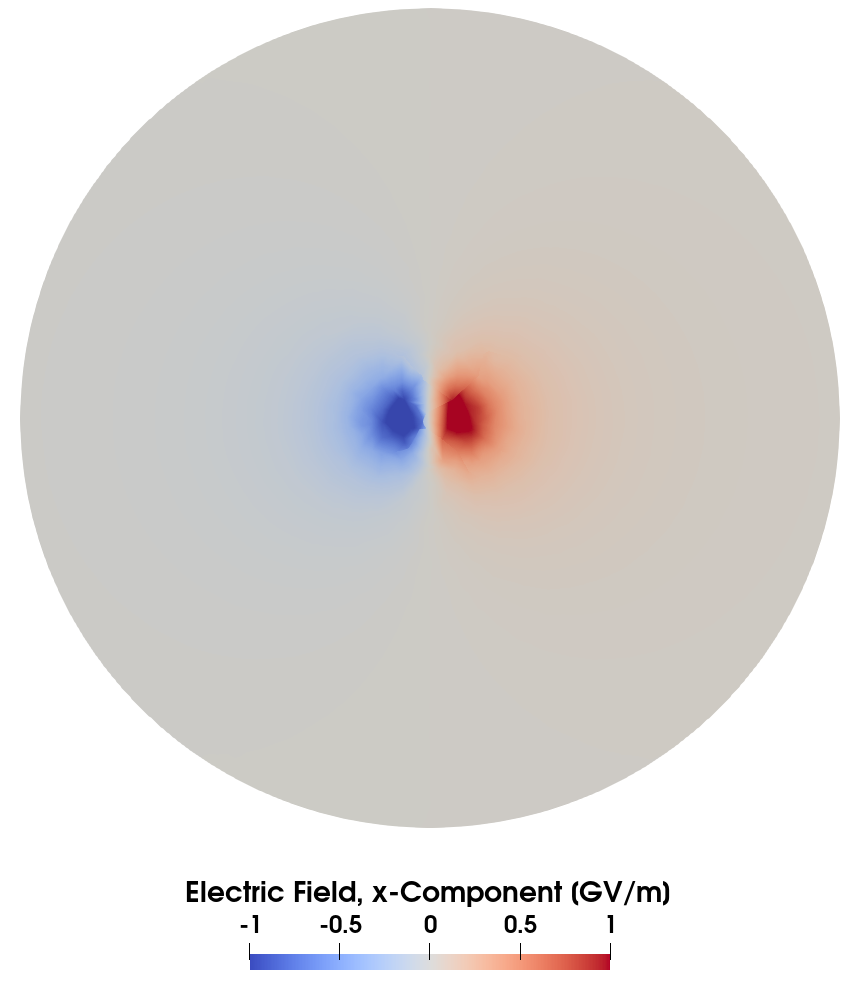
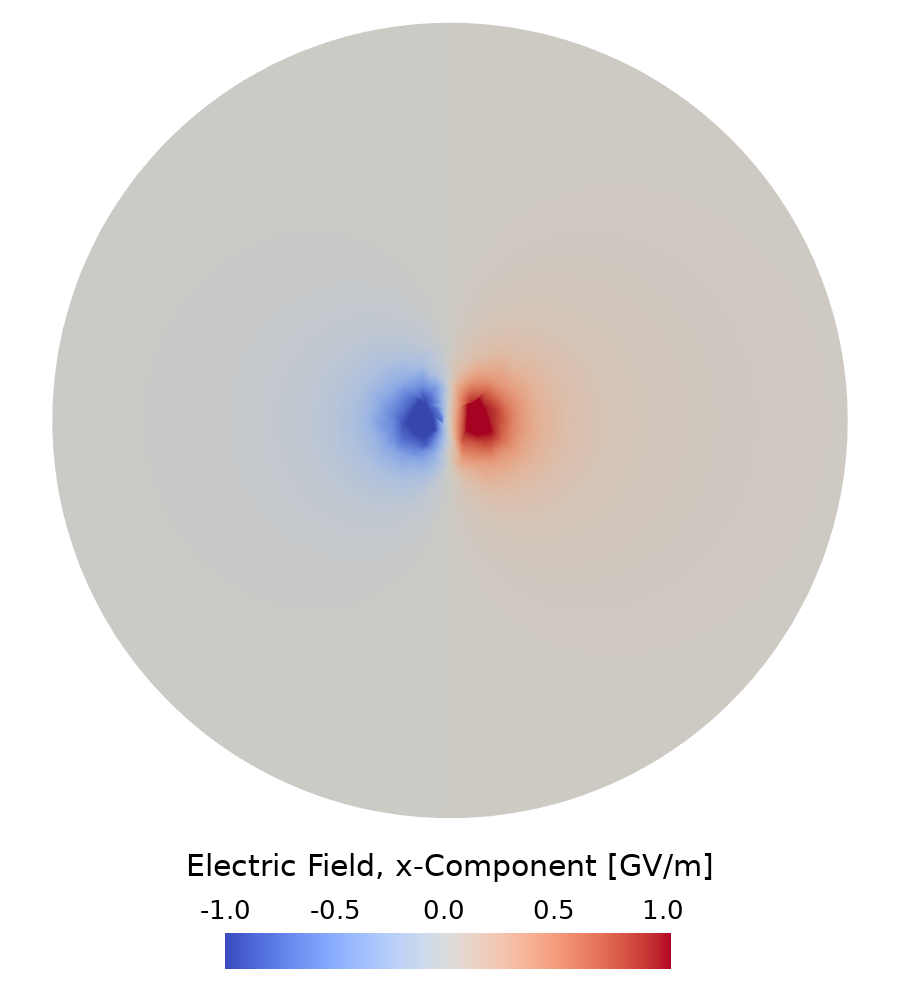
Render the David 2019 scene with PyVista

Changed region(s): [[0.0, 0.0, 0.9977, 1.0], [0.5442, 0.4242, 0.5744, 0.4545], [0.514, 0.3939, 0.5442, 0.4242]]

diff --git a/Electromagnetics/David_2019_Nonuniform_Charge_Density/case.py b/Electromagnetics/David_2019_Nonuniform_Charge_Density/case.py
@@ -124,11 +124,38 @@ class David2019ChargeDensity(ValidationCase):
                 path=f"{self.results_path / 'Electric_Field.png'}",
             )
 
-        # Export the electric field data to a VTK file (collective).
+        # Field export for the scene of create_scenes() (collective)
         vis = self.sim.get_field_exporter()
         vis.add_field_output("Electric Field")
         vis.add_field_output("Electric Potential")
         vis.save(order=2)
+
+    def create_scenes(self):
+        # The x-component of the electric field in the cross-section z = 0 of the spherical
+        # domain, seen from the front.
+        from casekit.pyvista_scene import FieldExportReader, add_colorbar, create_scene
+
+        domain = FieldExportReader(self.dir_path).read()["Domain"]
+        section = domain.slice(normal="z", origin=(0.0, 0.0, 0.0))
+
+        scene = create_scene((900, 1000))
+        actor = scene.add_mesh(
+            section, scalars="Electric Field", component=0, clim=(-1.0e9, 1.0e9)
+        )
+        scene.view_xy()
+        scene.camera.zoom(1.25)
+        # Room for the color bar below: the camera moves down (-y).
+        scene.camera.focal_point += np.array([0.0, -2.0, 0.0])
+        scene.camera.position += np.array([0.0, -2.0, 0.0])
+        add_colorbar(
+            scene,
+            actor,
+            "Electric Field, x-Component [GV/m]",
+            label_format="%.1f",
+            location="bottom",
+            scale=1e-9,
+        )
+        scene.show(screenshot=self.results_path / "Scene_Electric_Field.png")
 
 
 if __name__ == "__main__":

diff --git a/Electromagnetics/David_2019_Nonuniform_Charge_Density/README.md b/Electromagnetics/David_2019_Nonuniform_Charge_Density/README.md
@@ -430,10 +430,9 @@ The case checks the field at $`r = 1`$ m, near its maximum, where mufem is 3.4 %
 analytical value (the mesh size of 0.5 m equals the width $`a`$ of the charge
 distribution), and at $`r = 5`$ m, outside the charge, where it is 0.5 % below.
 
-To visualize the exported electric field data, we use
-[ParaView](https://www.paraview.org/).
-The corresponding Python script is available in the [create_scene.py](create_scene.py)
-file (run with `pvpython create_scene.py`).
+The exported electric field is visualized with [PyVista](https://pyvista.org/) by
+`create_scenes()` in [case.py](case.py) (run the case with `--scenes`, or with `--scenes-only`
+after a run; see [Scenes](https://github.com/Raiden-Numerics/mufem/blob/main/VALIDATION.md#scenes)).
 Figure 2 illustrates the distribution of the $`x`$-component of the
 electric field in the $`z=0`$ cross-section.
 
